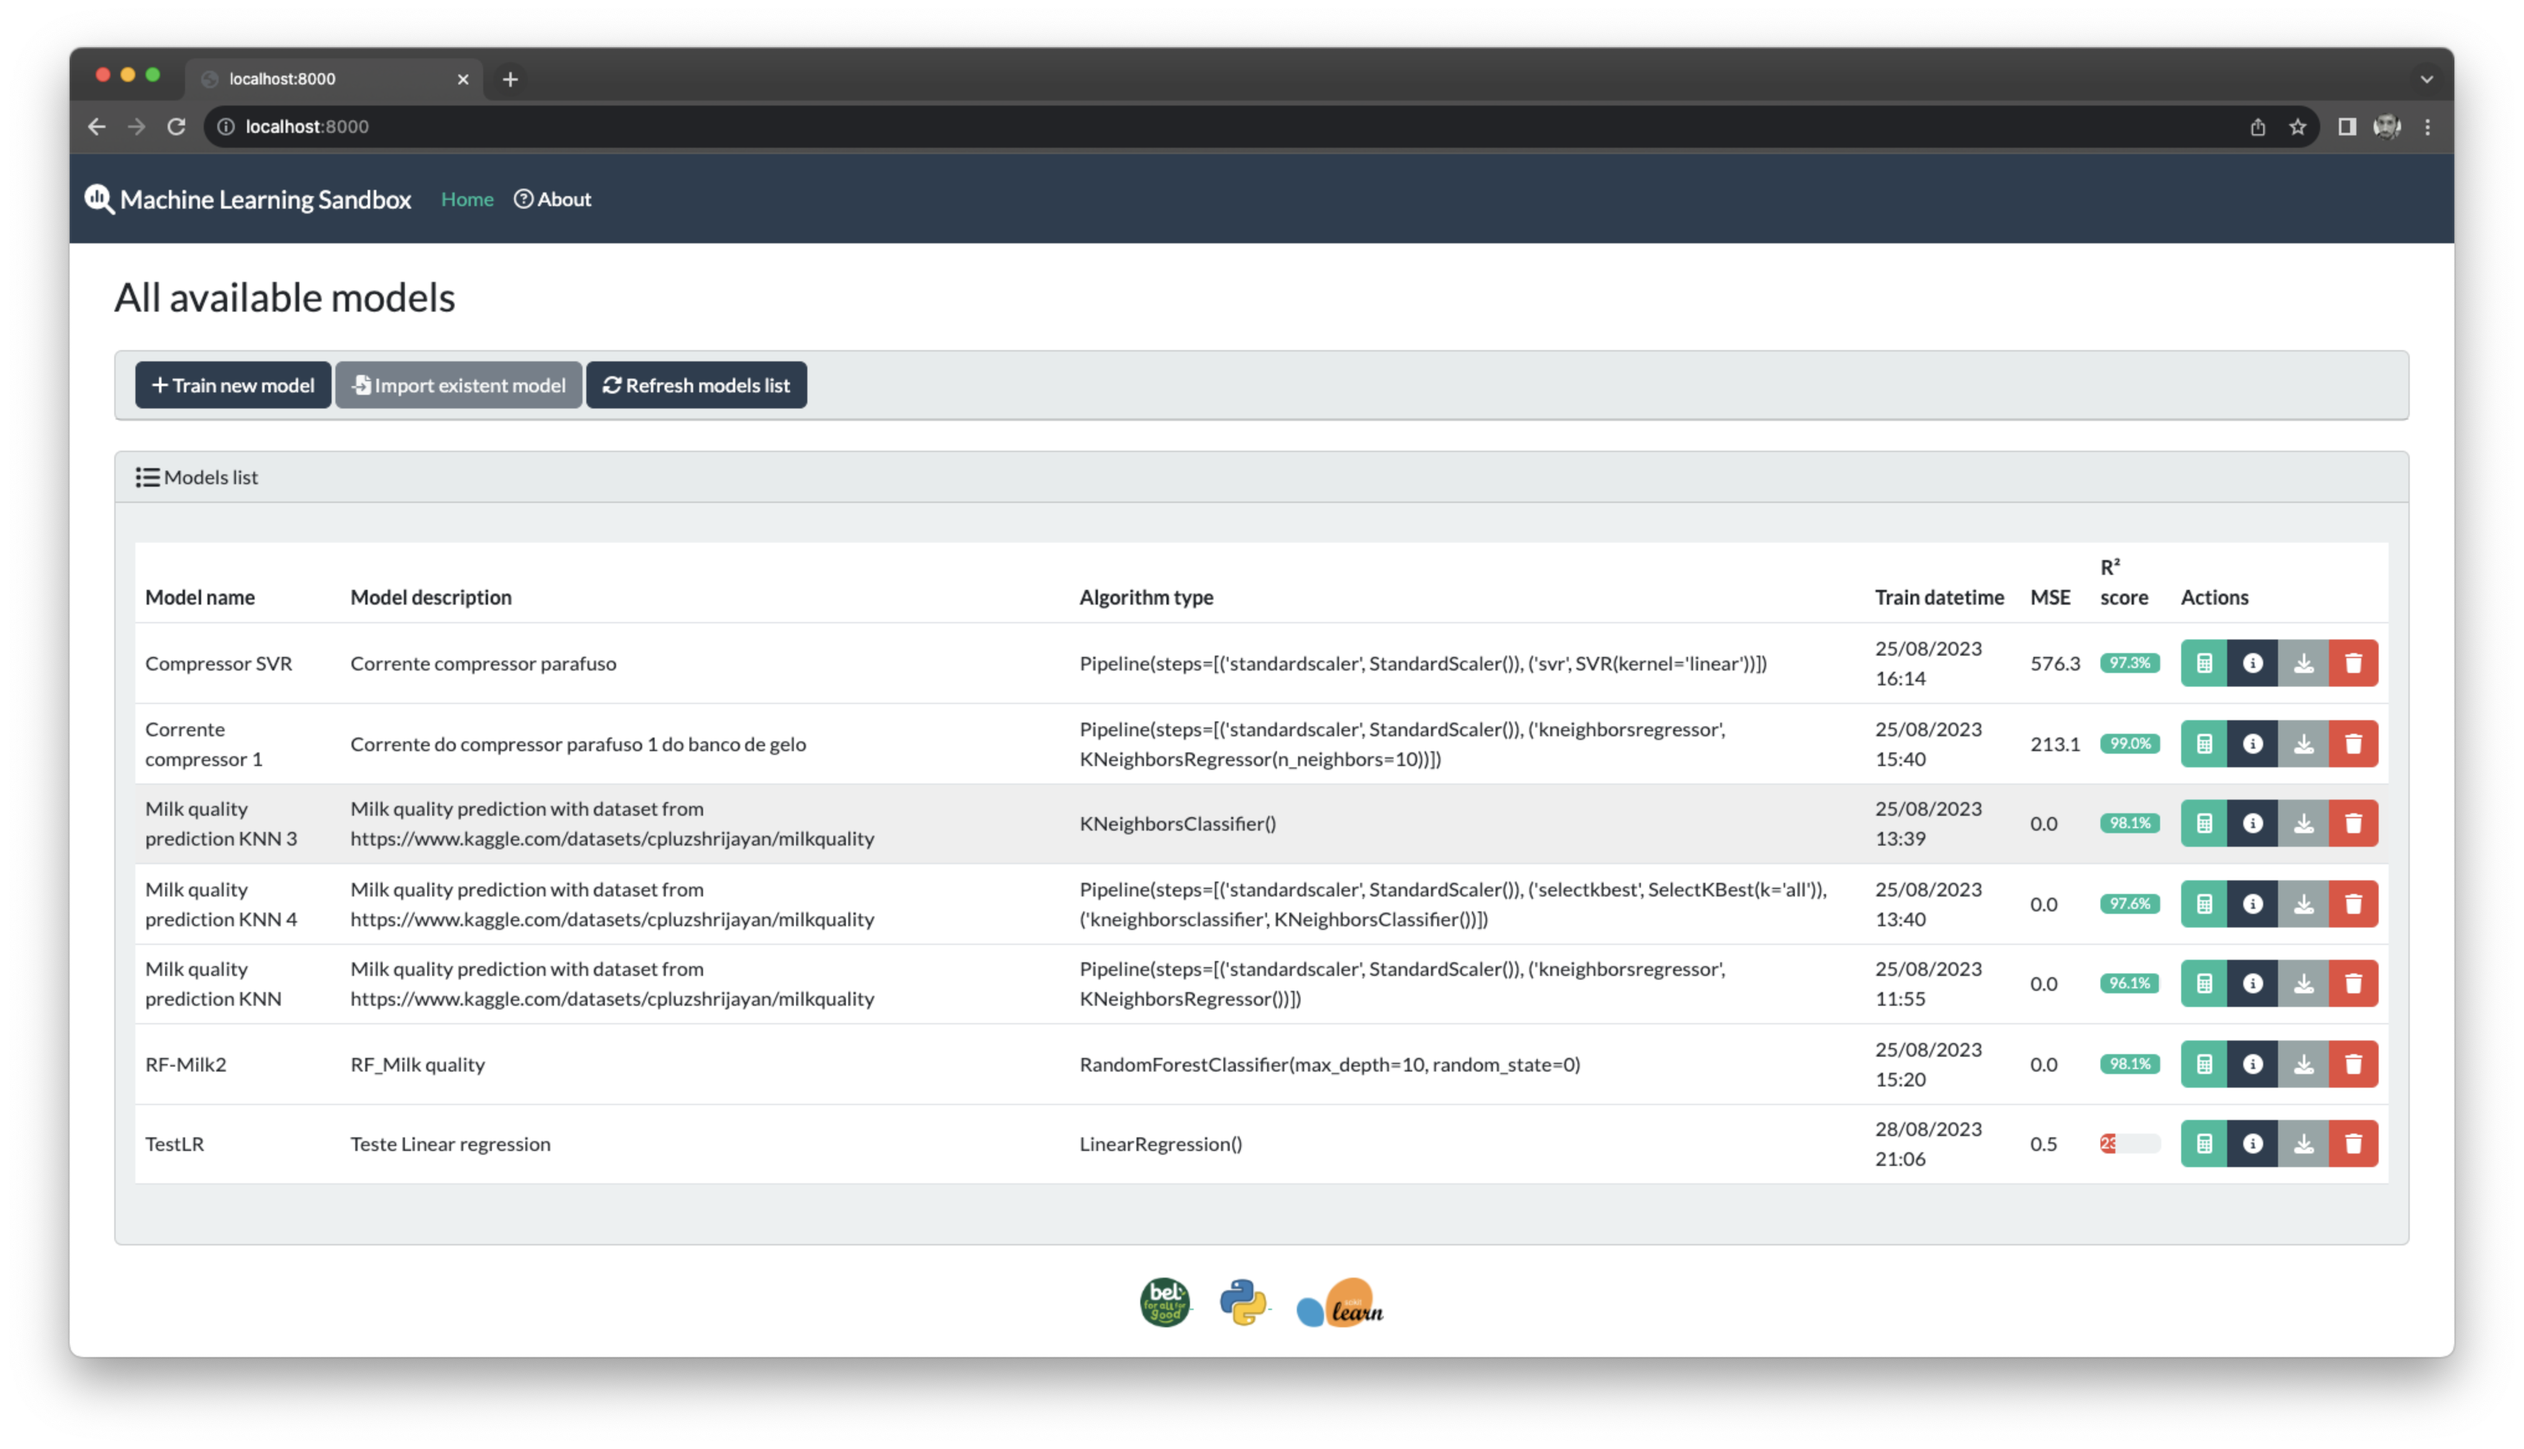
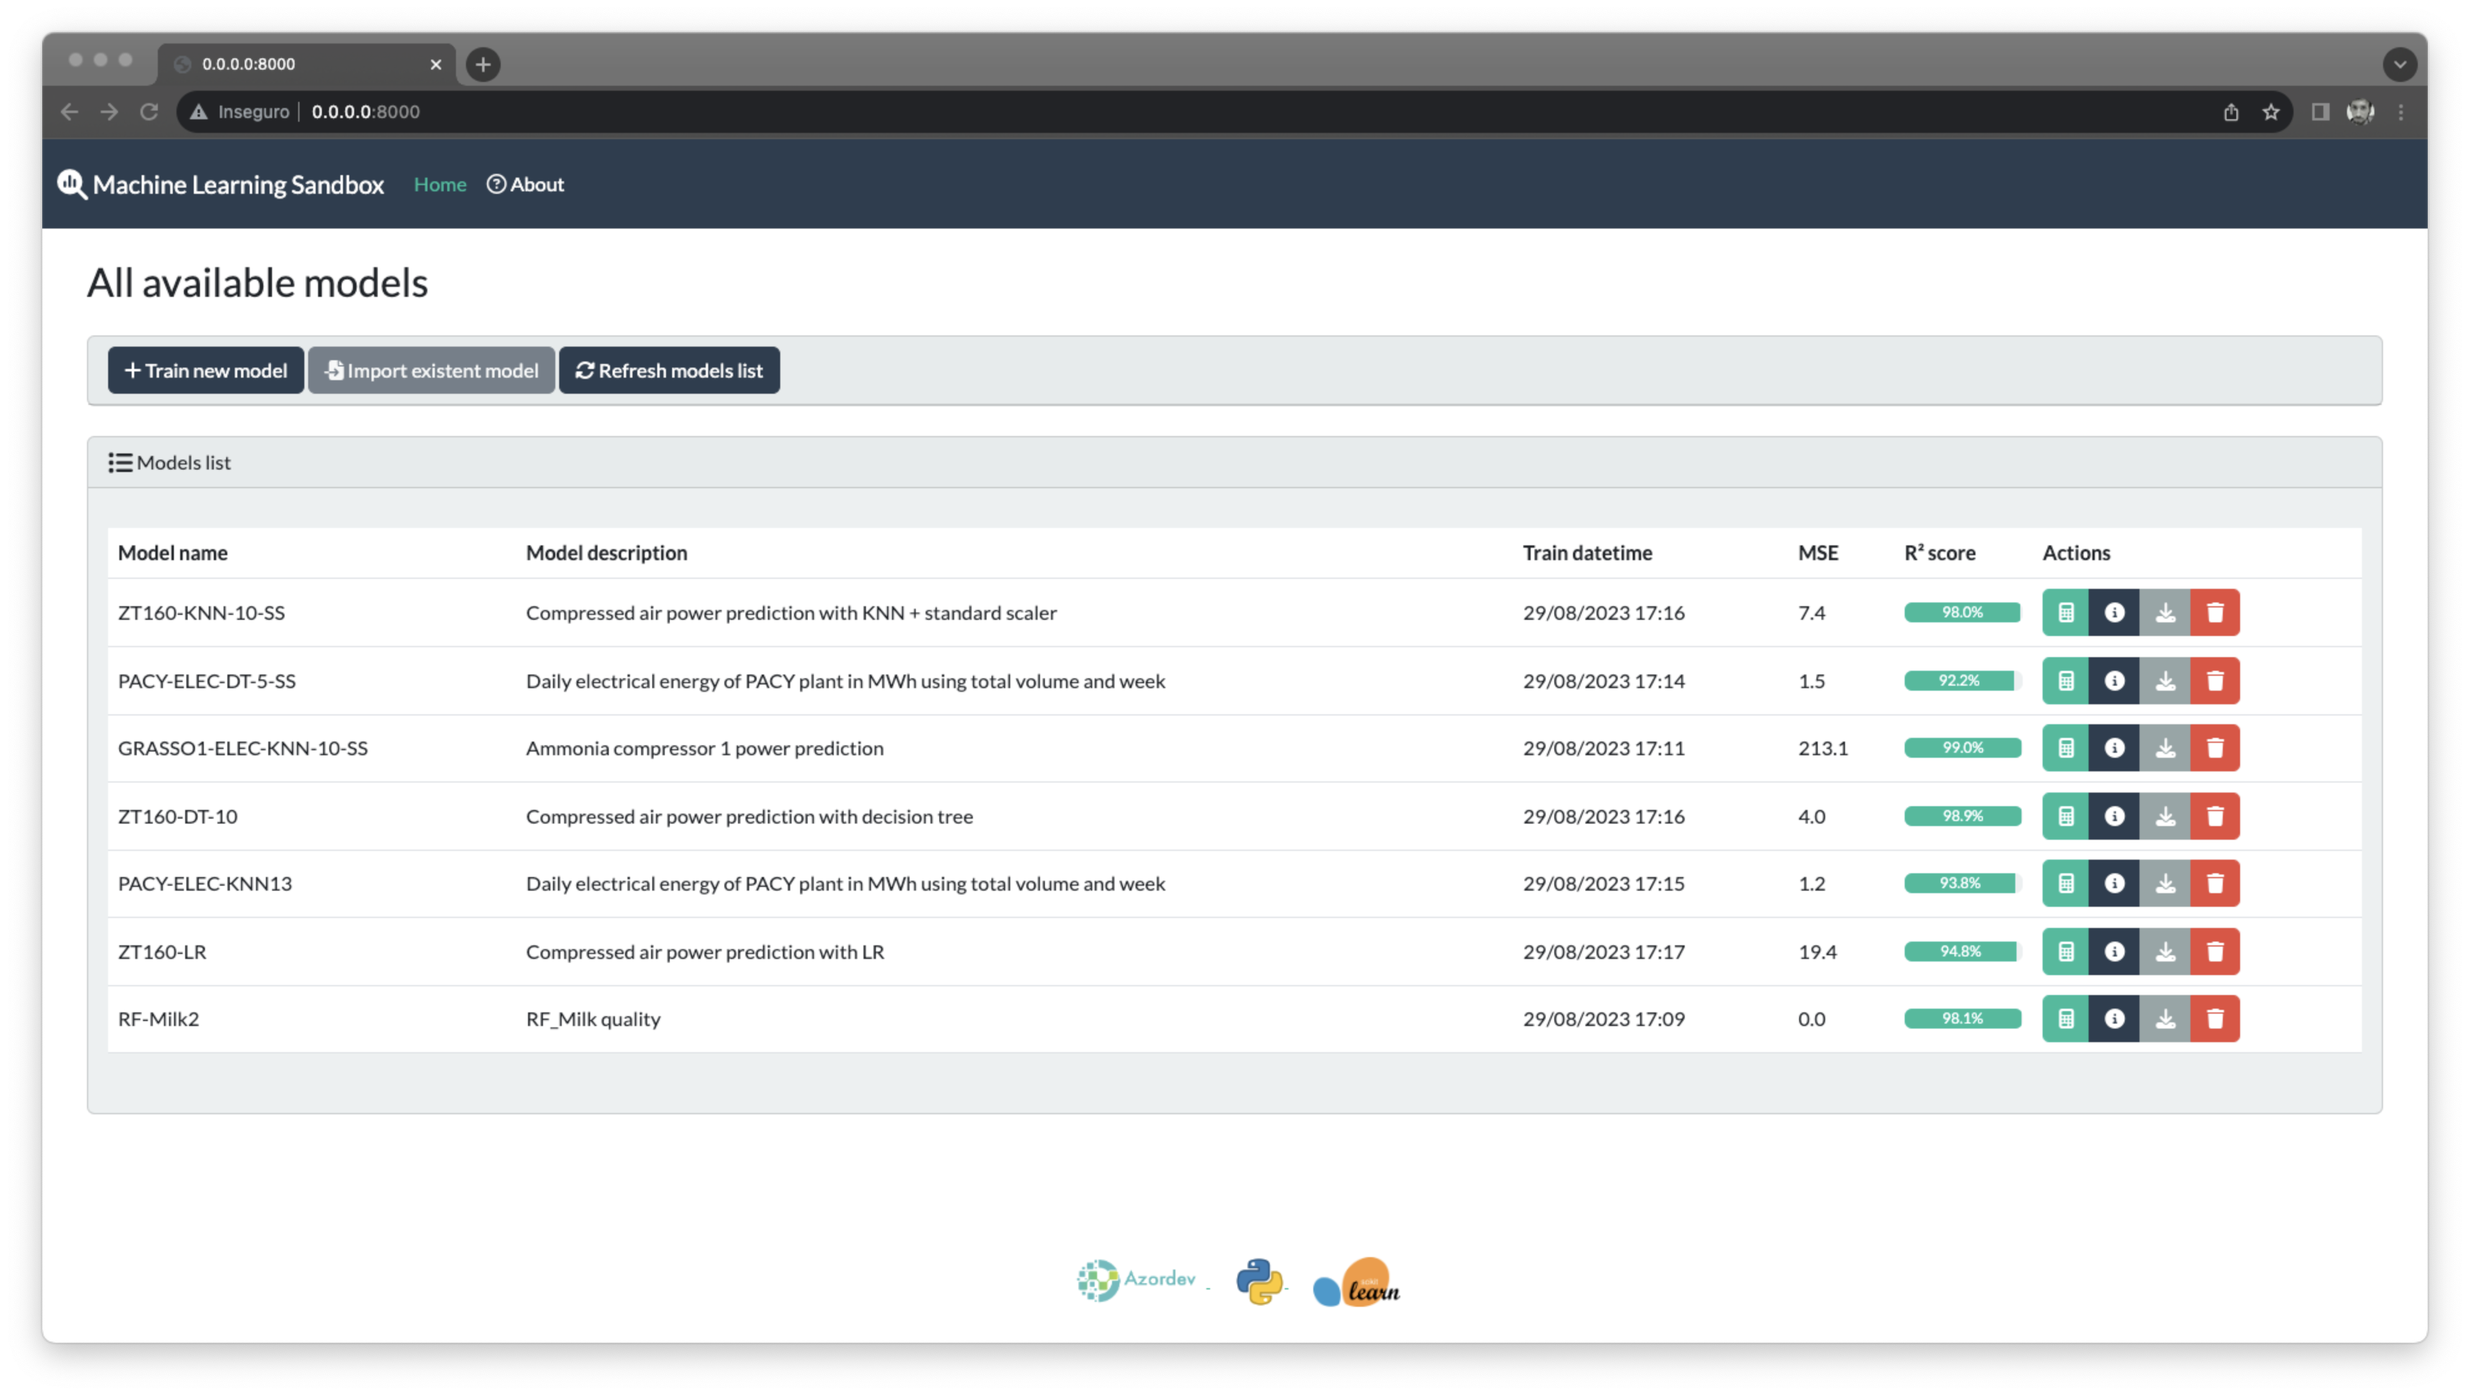
Rebranded azordev

diff --git a/app/templates/base.html b/app/templates/base.html
@@ -51,10 +51,10 @@
                   <div class="modal-body">
                     <p>App name: MLS - Machine Learning Sandbox</p>
                     <p>App version: {{version}}</p>
-                    <p>Copyright &copy; <script>document.write(new Date().getFullYear())</script> Fromageries Bel</p>
+                    <p>Copyright &copy; <script>document.write(new Date().getFullYear())</script> Azordev.pt</p>
                     <hr>
                     <p>For more information please contact:</p>
-                    <a href = "mailto: celso.silvestre@groupe-bel.com">celso.silvestre@groupe-bel.com</a>
+                    <a href = "mailto: geral@azordev.pt">geral@azordev.pt</a>
                   </div>
                   <div class="modal-footer">
                     <button type="button" class="btn btn-primary" data-bs-dismiss="modal">Dismiss</button>
@@ -69,15 +69,15 @@
                   <div class="container my-auto">
                     <div class="copyright text-center my-auto" id=copyright>
     
-                      <a href="https://www.groupe-bel.com/en/" style="padding:10px">
-                        <img src="../static/img/bellogo.png" alt="bellogo" height="40" width="40">
+                      <a href="http://www.azordev.pt" style="padding:10px" target="_blank" rel="noopener">
+                        <img src="../static/img/azordev_logo.png" alt="bellogo" height="50" width="110">
                       </a>
         
-                      <a href="https://www.python.org/" style="padding:10px">
+                      <a href="https://www.python.org/" style="padding:10px" target="_blank" rel="noopener">
                         <img src="../static/img/python.webp" alt="pythonlogo" height="40" width="40">
                       </a>
         
-                      <a href="https://scikit-learn.org/" style="padding:10px">
+                      <a href="https://scikit-learn.org/" style="padding:10px" target="_blank" rel="noopener">
                         <img src="../static/img/Scikit.png" alt="scikitlogo" height="40" width="70">
                       </a>
                       

diff --git a/app/templates/index.html b/app/templates/index.html
@@ -28,7 +28,7 @@
                             <tr>
                               <th scope="col">Model name</th>
                               <th scope="col">Model description</th>
-                              <th scope="col">Algorithm type</th>
+                              <!--th scope="col">Algorithm type</th-->
                               <th scope="col">Train datetime</th>
                               <th scope="col">MSE</th>
                               <th scope="col">R² score</th>
@@ -40,7 +40,7 @@
                               <tr>
                                   <td style="vertical-align: middle;">{{model.name}}</td>
                                   <td style="vertical-align: middle;">{{model.description}}</td>
-                                  <td style="vertical-align: middle;">{{model.model}}</td>
+                                  <!--td style="vertical-align: middle;">{{model.model}}</td-->
                                   <td style="vertical-align: middle;">{{model.datetime.strftime('%d/%m/%Y %H:%M')}}</td>
                                   <td style="vertical-align: middle;" data-toggle="tooltip" title="Mean squared error: Lower is better">{{ '%0.1f'|format(model.MSE)}}</td>
                                   <!--td data-toggle="tooltip" title="R2 score: Higher is better">{{ '%0.1f'|format(model.R2 * 100)}}%</td-->

diff --git a/app/templates/details.html b/app/templates/details.html
@@ -60,7 +60,7 @@
             <div class="form-group row">  
               <!-- Algorithm -->
               <label for="Algorithm" class="col-sm-2 col-form-label">Algorithm type</label>
-              <div class="col-sm-4">
+              <div class="col-sm-10">
                 <input type="text" class="form-control text-left" id="Algorithm" value="{{Model.model}}" disabled>
               </div>
 

diff --git a/app/app.py b/app/app.py
@@ -47,7 +47,7 @@ temp_df_y = pd.DataFrame()
 temp_df_y_name = ""
 temp_df_x = pd.DataFrame()
 heatmap_base64_jpgData = ""
-appversion = "1.0.3"
+appversion = "1.1.0"
 
 @app.context_processor
 def inject_app_version():

diff --git a/README.md b/README.md
@@ -18,11 +18,11 @@ Sdandard scaler and feature reduction can also be applied in the pipeline by sel
 
 ### Main screen
 Management of existent models
-![alt text](https://github.com/CLSoftSilvestre/Machine-Learning-Sandbox/blob/main/screenshots/mainscreen.png?raw=true)
+![alt text](./screenshots/mainscreen.png?raw=true)
 
 ### Train  models screen
 Train model with imported csv dataset. Some features implemented to clean the data, delete columns, select the Y feature. The system show the main stats of the data imported and creates a correlation matrix.
-![alt text](https://github.com/CLSoftSilvestre/Machine-Learning-Sandbox/blob/main/screenshots/trainmodel.png?raw=true)
+![alt text](./screenshots/trainmodel.png?raw=true)
 
 ### Check the model performance
 After training the model, it will be saved in the folder ./app/models/. The user can check the performance of the model accesing the model details in the main screen of the application. It will be visible the chart with the Real vs Predicted values (limited to 100 tests) created during the training and will be shown the R^2^ and MSE scores.
@@ -30,7 +30,7 @@ After training the model, it will be saved in the folder ./app/models/. The user
 
 ### Download trained model
 Use the trained model in other python applications.
-![alt text](https://github.com/CLSoftSilvestre/Machine-Learning-Sandbox/blob/main/screenshots/download.png?raw=true)
+![alt text](./screenshots/download.png?raw=true)
 
 ### Using API
 The integrated API prodived methods to list the available models, get the required input fields and retrieve the prediction.
